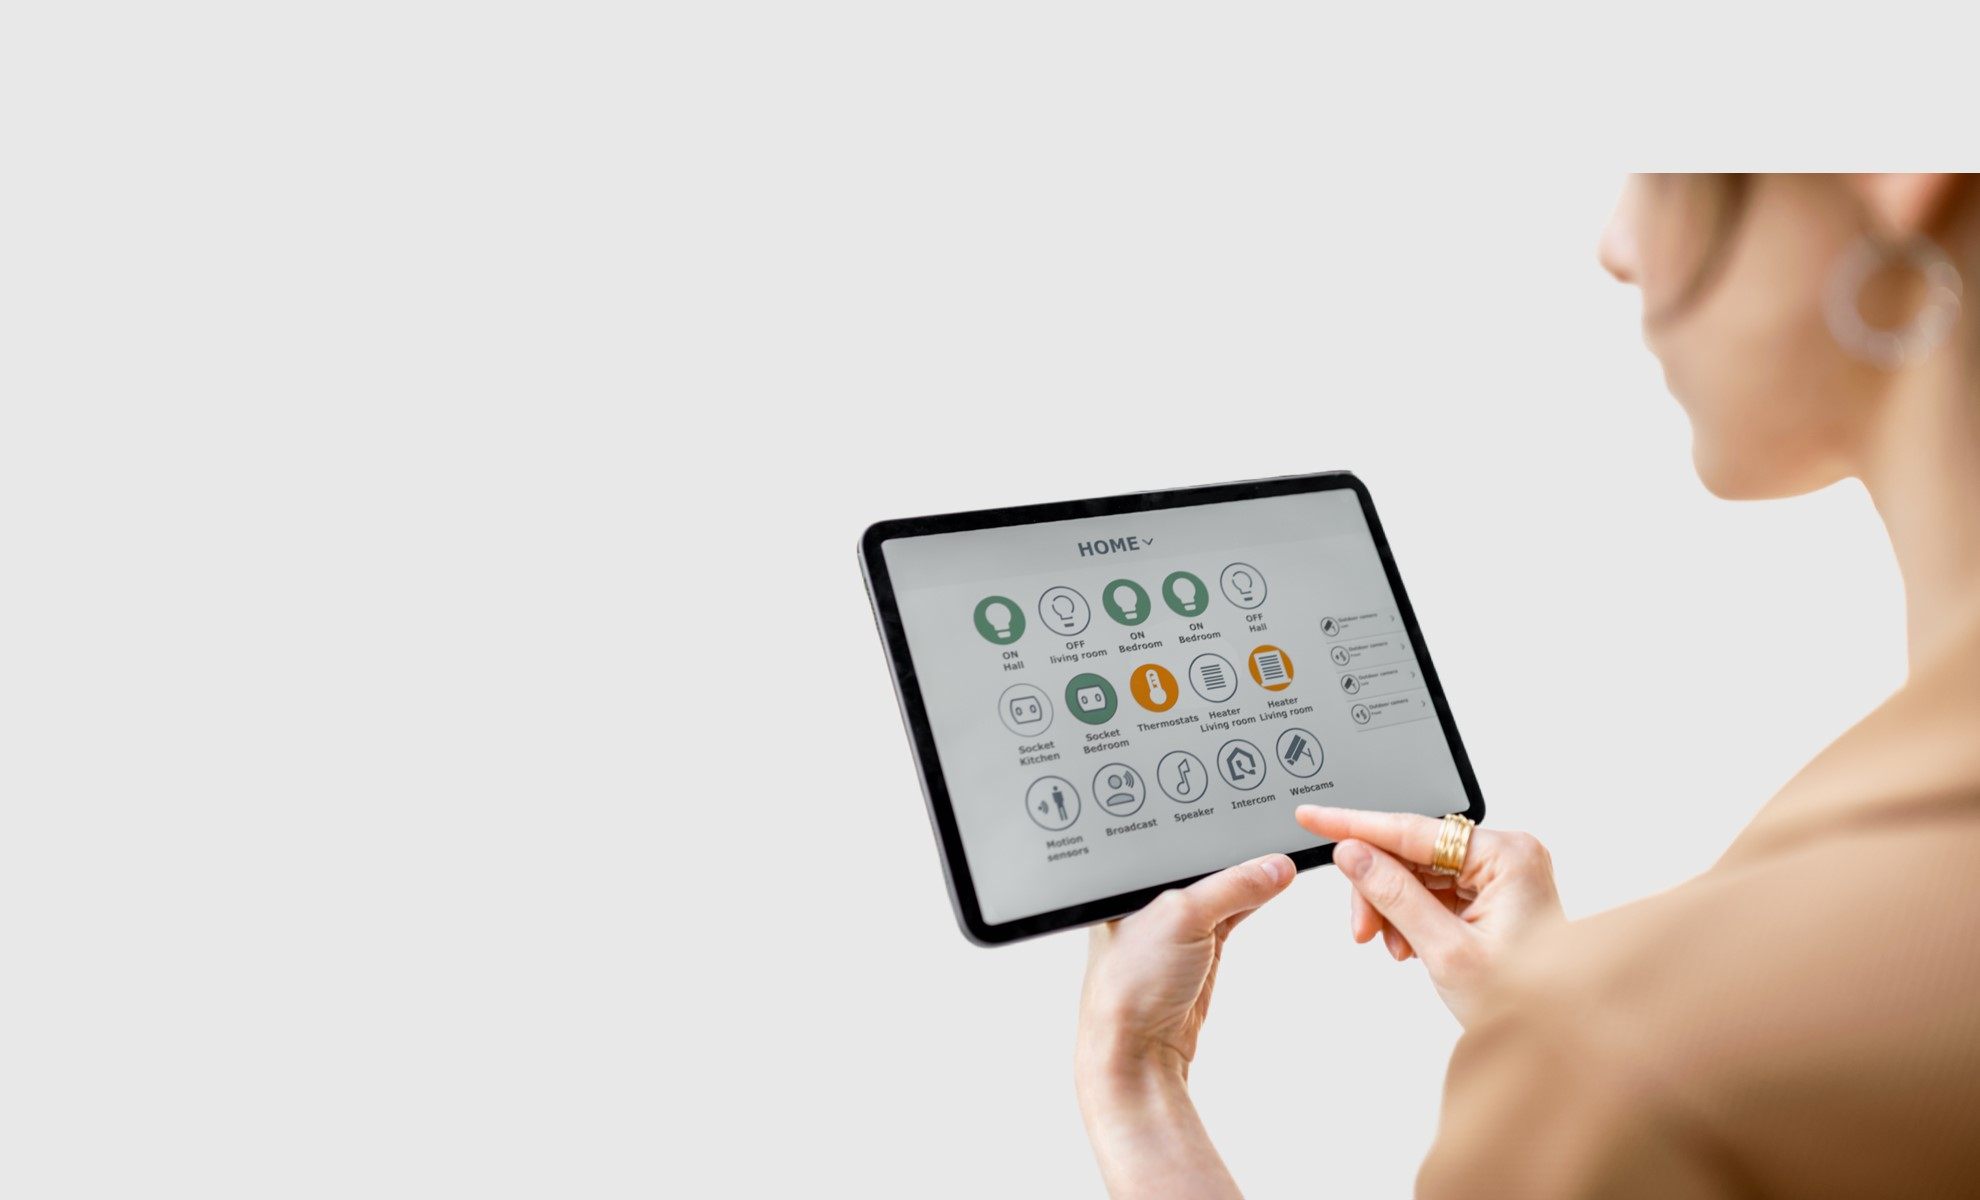
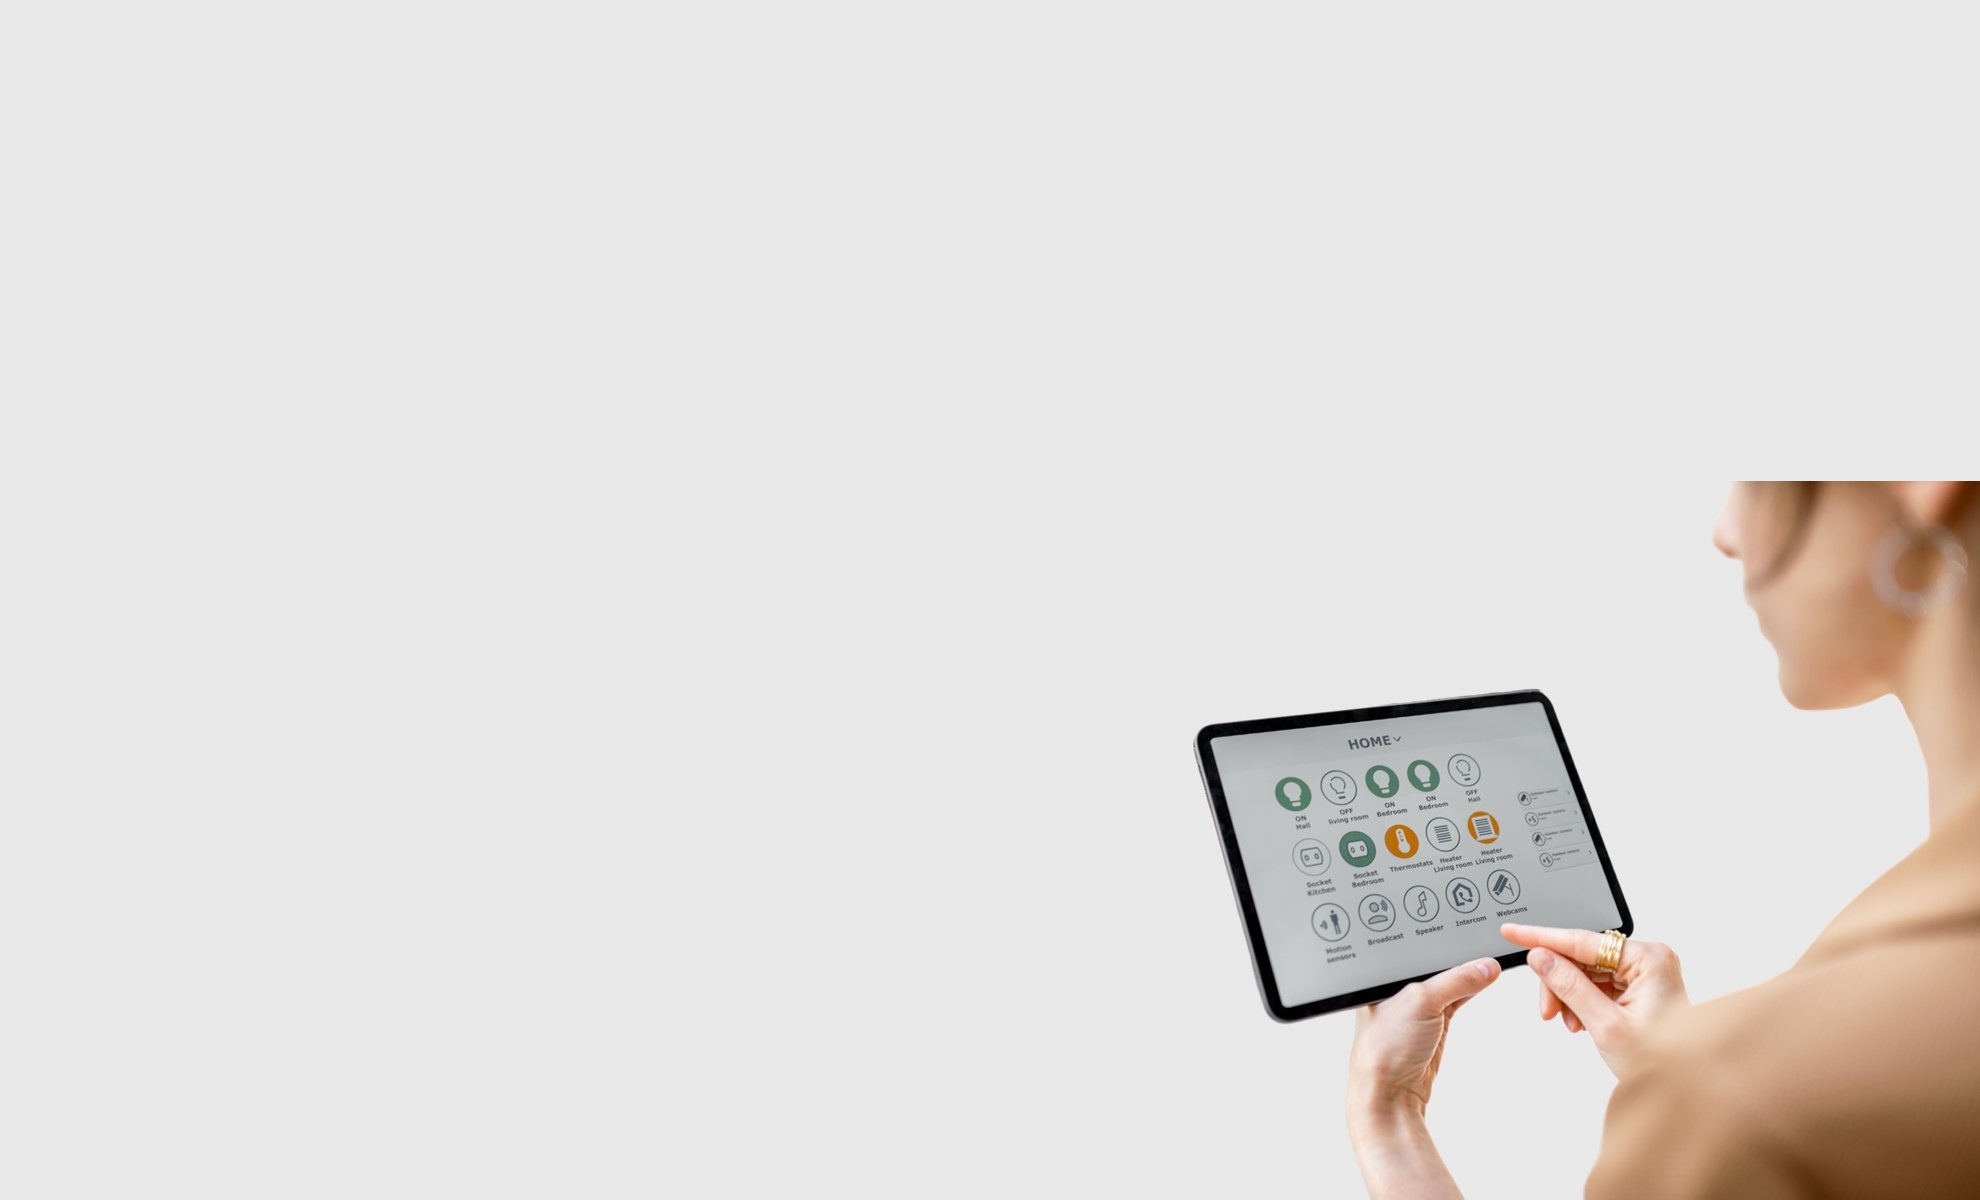
change

Changed region(s): [[0.4313, 0.1233, 1.0, 1.0]]

diff --git a/services.html b/services.html
@@ -144,7 +144,7 @@
 <div id="wrapper">
 
         <!-- parallax -->
-        <div class="parallax" style="background-image: url(assets/images/services.jpg);">
+        <div class="parallax" style="background-image: url(assets/images/parallax-03.jpg);">
             <div class="info">
                 <h2 data-in-effect="none">Our services</h2>
             </div>
